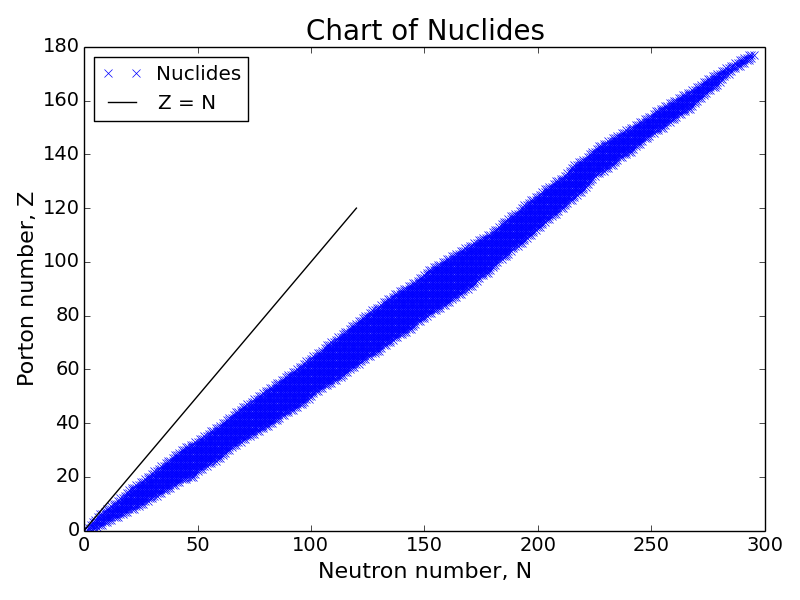
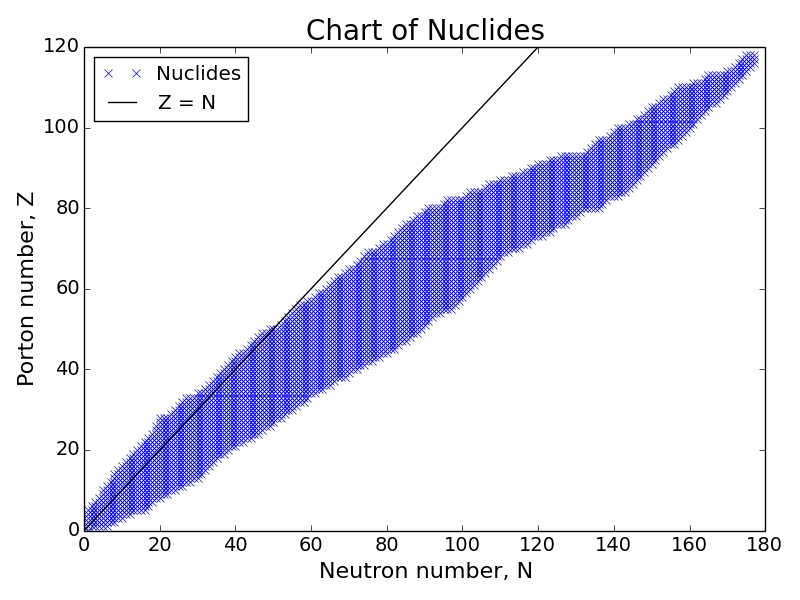
Plotting Z vs N

diff --git a/NPE/ChartOfNuclides.py b/NPE/ChartOfNuclides.py
@@ -26,7 +26,7 @@ N = A-Z 	 	# Neutron number
 
 # Plot of Chart of nuclides
 fig1 = figure(1)
-plot(A, N, "x", [0, 120], [0, 120], "k-")
+plot(N, Z, "x", [0, 120], [0, 120], "k-")
 title("Chart of Nuclides", fontsize=20)
 xlabel("Neutron number, N", fontsize=16)
 ylabel("Porton number, Z", fontsize=16)
